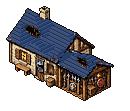
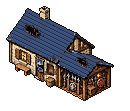
fix: capital roofs: slate faces set by hand on 13 GPT sets (no more stepped light/dark blocks)
The style match split each slate roof into faces by its light (slate_planes), so a mottled painting of
one plane was re-drawn as light and dark blobs, each its own face with its courses turned at a staircase
edge (the library, the lumber yard, the manor). gpt_convert.SLATE_FACES sets those sets' faces read off
the painting (+1, -1 or a split line in sheet px); style_match takes them via tune(opts) / knobs["faces"].
roof_bands.py scores the banding (drawn course direction against the best straight split per roof
piece) and flags the 13 re-converted sets; the warehouse and shop-house courses now run with their
eaves. Ruins unchanged; every other set unchanged. town_debug: three capital roof shots.

diff --git a/tools/dev/ref_convert/roof_bands.py b/tools/dev/ref_convert/roof_bands.py
@@ -1,0 +1,155 @@
+"""Roof banding: how much of a gpt_* set's slate roof is drawn as stepped blocks instead of even tile courses.
+
+The style match pass re-draws a slate roof as courses (style_match.courses()), each face in its own tone with its
+courses parallel to its eave. Where the faces are split by the painting's light (slate_planes()) and the painting is
+mottled (moss, lichen, painted wear), a roof that is one plane is cut into light and dark blobs, each drawn as a face
+of its own: big flat light/dark blocks whose courses turn at a staircase edge (the user's "strange roofs", capital
+polish 3). A roof's true faces are planes, so on the sprite they meet along straight lines (a ridge, a hip); the
+blobs do not. This scores that, per still (intact, damaged, ruins):
+
+  roof     the roof px: slate blue (style_stats.family) in pieces of at least style_match.SLATE_MIN px, not the outline,
+           not painted water (gpt_convert.water_mask() of a set with water)
+  drawn    per roof px, the way its courses run: +1 down-right, -1 up-right, from the still's exact colour repeats
+           along the two course diagonals (2, 1) and (2, -1) over a 5 x 5 window
+  blocks   the share of the roof drawn against the best straight split of each roof piece: per piece, the line (every
+           3 degrees, every offset) that best parts its +1 from its -1 (or no line: one face), and the px on the wrong
+           side of it. A roof of one face or of two faces meeting at a ridge scores near 0; blobs score high.
+  patches  turned patches of at least PATCH px (the stepped blocks themselves: the px on the wrong side, joined)
+  shades   distinct roof colours
+  banding  blocks (the ranking and the flag)
+
+A set is flagged when its intact's banding is THRESHOLD or more, the threshold set to flag the user's three examples
+(the library, the user's "chapel"; the lumber yard; the manor, whose roof is the one by the Keep's drill yard). Red
+roofs are not scored: they keep their painted tiles (style_match.RED_ROOFS off), nothing re-draws them.
+
+Usage (from anywhere):
+  python tools/dev/ref_convert/roof_bands.py [<set> ...] [--dir <buildings dir>] [--top N]
+  no sets: every gpt_* set (style_stats.GPT), ranked by the intact's banding.
+"""
+import argparse
+import sys
+from pathlib import Path
+
+import numpy as np
+from PIL import Image
+
+sys.path.insert(0, str(Path(__file__).resolve().parent))
+import gpt_convert as gc  # noqa: E402
+import style_match as sm  # noqa: E402
+import style_stats as ss  # noqa: E402
+from bonfire_flicker import _components  # noqa: E402
+
+STATES = ("intact", "damaged", "ruins")
+THRESHOLD = 0.045
+PATCH = 12
+ANGLES = np.radians(np.arange(0, 180, 3))
+
+
+def roof(a, water=None):
+    """The scored roof px of an output still (see the module doc)."""
+    al = a[..., 3] > 0
+    f = ss.family(a[..., :3].astype(float))
+    m = al & (f == ss.BLUE) & ~ss.outline_mask(al)
+    if water is not None:
+        m &= ~water
+    out = np.zeros_like(m)
+    for pts in _components(m, conn8=False):
+        if len(pts) >= sm.SLATE_MIN:
+            ys, xs = zip(*pts)
+            out[list(ys), list(xs)] = True
+    return out
+
+
+def drawn(a, m):
+    """+1 where the still's courses run down-right (colour repeats along (2, 1)), -1 up-right, on the roof px."""
+    key = (a[..., 0].astype(np.int64) << 16) | (a[..., 1].astype(np.int64) << 8) | a[..., 2]
+    key = np.where(m, key, -1)
+    h, w = m.shape
+    p = np.pad(key, 3, constant_values=-2)
+
+    def at(dy, dx):
+        return p[3 + dy:3 + dy + h, 3 + dx:3 + dx + w]
+    down = ((at(1, 2) == key).astype(float) + (at(-1, -2) == key)) * m
+    up = ((at(-1, 2) == key).astype(float) + (at(1, -2) == key)) * m
+    s = sm._box(down, 2) - sm._box(up, 2)
+    s = sm._box(np.where(m, np.sign(s), 0.0), 1)
+    return np.where(s >= 0, 1, -1)
+
+
+def wrong_side(ys, xs, o):
+    """The px of one roof piece on the wrong side of the straight split that best parts its +1 from its -1 (or of no
+    split, when one face fits better), as a boolean array along (ys, xs)."""
+    pos = o > 0
+    n = len(pos)
+    best = (min(pos.sum(), n - pos.sum()), None)          # no split: the minority sign is wrong
+    for ang in ANGLES:
+        t = xs * np.cos(ang) + ys * np.sin(ang)
+        idx = np.argsort(t, kind="stable")
+        c = np.concatenate([[0], np.cumsum(pos[idx])])     # +1 px before each cut
+        k = np.arange(n + 1)
+        wrong_a = (k - c) + (pos.sum() - c)                # +1 before the cut, -1 after
+        wrong_b = c + (n - k) - (pos.sum() - c)            # -1 before the cut, +1 after
+        for wr, plus_first in ((wrong_a, True), (wrong_b, False)):
+            i = int(wr.argmin())
+            if wr[i] < best[0]:
+                best = (int(wr[i]), (idx, i, plus_first))
+    if best[1] is None:
+        return pos if pos.sum() * 2 < n else ~pos
+    idx, i, plus_first = best[1]
+    want = np.zeros(n, bool)
+    want[idx[:i]] = plus_first
+    want[idx[i:]] = not plus_first
+    return want != pos
+
+
+def score(a, water=None):
+    """{px, blocks, patches, shades, banding} of one output still, or None when it has no slate roof."""
+    m = roof(a, water)
+    n = int(m.sum())
+    if n == 0:
+        return None
+    o = drawn(a, m)
+    bad = np.zeros_like(m)
+    for pts in _components(m, conn8=False):
+        ys, xs = (np.array(v) for v in zip(*pts))
+        w = wrong_side(ys, xs, o[ys, xs])
+        bad[ys[w], xs[w]] = True
+    patches = sum(1 for q in _components(bad, conn8=False) if len(q) >= PATCH)
+    key = (a[..., 0].astype(np.int64) << 16) | (a[..., 1].astype(np.int64) << 8) | a[..., 2]
+    blocks = float(bad.sum()) / n
+    return {"px": n, "blocks": blocks, "patches": patches, "shades": int(len(np.unique(key[m]))), "banding": blocks}
+
+
+def score_set(name, base):
+    out = {}
+    water = None
+    for st in STATES:
+        a = np.array(Image.open(Path(base) / name / (st + ".png")).convert("RGBA"))
+        if st == "intact" and gc.SETS[name].get("water"):
+            water = gc.water_mask(a)
+        out[st] = score(a, water)
+    return out
+
+
+def main():
+    p = argparse.ArgumentParser(description=__doc__, formatter_class=argparse.RawDescriptionHelpFormatter)
+    p.add_argument("sets", nargs="*")
+    p.add_argument("--dir", default=str(ss.B))
+    p.add_argument("--top", type=int, default=0, help="print only the N highest")
+    args = p.parse_args()
+    rows = [(n, score_set(n, args.dir)) for n in (args.sets or ss.GPT)]
+    rows.sort(key=lambda r: -(r[1]["intact"]["banding"] if r[1]["intact"] else -1.0))
+    if args.top:
+        rows = rows[:args.top]
+    print("threshold %.3f (the intact's banding); per still: banding, patches, shades, roof px" % THRESHOLD)
+    print("%-18s %-24s %-24s %-24s %s" % ("set", "intact", "damaged", "ruins", "flag"))
+
+    def cell(r):
+        return "-" if r is None else "%.3f %3d %3d px %5d" % (r["banding"], r["patches"], r["shades"], r["px"])
+    for n, r in rows:
+        flag = "FLAG" if r["intact"] and r["intact"]["banding"] >= THRESHOLD else ""
+        print("%-18s %-24s %-24s %-24s %s" % (n, cell(r["intact"]), cell(r["damaged"]), cell(r["ruins"]), flag))
+
+
+if __name__ == "__main__":
+    main()

diff --git a/tools/dev/ref_convert/style_match.py b/tools/dev/ref_convert/style_match.py
@@ -451,20 +451,21 @@ def roof_materials():
     return [m for m in COURSE if m != ss.RED or RED_ROOFS]
 
 
-def courses(a, m, mat, contrast=1.0, ref=None, fam=None):
+def courses(a, m, mat, contrast=1.0, ref=None, fam=None, planes=None):
     """A roof (mask m, material mat) re-drawn as courses, as the in-game roofs are (COURSE[mat]): the tone is the
     roof's own colour per face, the painting's light across the face kept at `keep` (its mottling and speckle go);
     each course of `p` px has a light top row and a dark bottom line, parallel to the face's eave (slate_planes());
     tiles (`joint` px long, staggered by half a tile per course) get a dark joint in the course's middle rows and a
     fixed tone step of up to `var`. `contrast` scales every step (tune() fits it to the reference roofs' edge
     contrast). `ref`: the same canvas's intact at the same stage; a damaged still keeps its soot and char as the
-    ratio of its luminance to the intact's."""
+    ratio of its luminance to the intact's. `planes`: the faces (+1 / -1 per px, a set's own: knobs["faces"])
+    instead of slate_planes()."""
     if not m.any():
         return a
     c = COURSE[mat]
     out = a.copy()
     L = ss.luma(a[..., :3])
-    pl = slate_planes(L if ref is None else ss.luma(ref[..., :3]), m)
+    pl = slate_planes(L if ref is None else ss.luma(ref[..., :3]), m) if planes is None else planes
     h, w = m.shape
     ys, xs = np.mgrid[0:h, 0:w]
     v = np.where(pl > 0, ys - xs // 2, ys + (xs + 1) // 2)
@@ -580,7 +581,8 @@ def match(a, knobs, light=False, glow=True, ref=None, keep=None):
                     sm &= ~keep
                 if sm.sum() < SLATE_MIN:
                     continue
-                a = courses(a, sm, mat, knobs.get("tile", {}).get(mat, 1.0), r, rfam if r is not None else fam0)
+                pl = knobs.get("faces")         # a set's own faces (gpt_convert SLATE_FACES), else the light's
+                a = courses(a, sm, mat, knobs.get("tile", {}).get(mat, 1.0), r, rfam if r is not None else fam0, pl)
                 fam = np.where(sm, mat, fam)    # the re-drawn roof locks to its own material, mottles too
                 clear = clear | (sm & (a[..., :3].max(-1) >= CLEAR_V * 255))   # a damaged roof's char stays char
         if glow:
@@ -610,7 +612,7 @@ def score(img):
     return abs(st["edge"] - EDGE_TARGET) + 2.0 * max(0.0, lo - st["lum"], st["lum"] - hi), st
 
 
-def _grid(intact, fac, glob, roof, tile=None):
+def _grid(intact, fac, glob, roof, tile=None, opts=None):
     """The (lift, amount) grid with the saturation rounds (see tune()): (knobs, stats, image)."""
     mat_ref = refs()[1]
     tile = tile or {}
@@ -618,7 +620,7 @@ def _grid(intact, fac, glob, roof, tile=None):
         best = None
         for lift in LIFTS:
             for amount in AMOUNTS:
-                k = {"fac": fac, "glob": glob, "lift": lift, "amount": amount, "roof": roof, "tile": tile}
+                k = dict(opts or {}, fac=fac, glob=glob, lift=lift, amount=amount, roof=roof, tile=tile)
                 img, _ = match(intact, k)
                 c, st = score(img)
                 c += 0.01 * abs(lift - 1.0) + 0.002 * amount
@@ -671,14 +673,16 @@ def _roofs(intact, k, img, rounds):
     return k, img
 
 
-def tune(intact):
+def tune(intact, opts=None):
     """The set's knobs: saturation factors from the intact, then (lift, amount) off the fixed grid that lands its
     edge contrast nearest EDGE_TARGET with its mean luminance in LUM_BAND (ties: the smaller change), then the roofs
-    (shade and course contrast) toward the reference roofs; the grid again with them, and the roofs again."""
+    (shade and course contrast) toward the reference roofs; the grid again with them, and the roofs again. `opts`: a
+    set's own options, kept in its knobs (faces: its slate's faces, +1 / -1 per px of the canvas, instead of
+    slate_planes()' split by light)."""
     fac, glob = sat_factors(intact)
-    k, st, img = _grid(intact, fac, glob, {})
+    k, st, img = _grid(intact, fac, glob, {}, None, opts)
     k, img = _roofs(intact, k, img, ROOF_ROUNDS)
-    k, st, img = _grid(intact, fac, k["glob"], k["roof"], k.get("tile"))
+    k, st, img = _grid(intact, fac, k["glob"], k["roof"], k.get("tile"), opts)
     k, img = _roofs(intact, k, img, ROOF_ROUNDS)
     return k, ss.stats(img)
 

diff --git a/tools/dev/ref_convert/gpt_convert.py b/tools/dev/ref_convert/gpt_convert.py
@@ -343,6 +343,40 @@ SMALL_SMOKE = []
 # The props laid a second time, mirrored (the showcase's MIRRORS).
 MIRRORS = ["gpt_wagon"]
 
+# Slate faces set by hand (capital polish 3): on these sets the style match's split of the slate into faces by its
+# light (style_match.slate_planes()) follows the painting's moss and mottling, so a roof that is one plane was re-drawn
+# as light and dark blobs, each a face of its own with its courses turned at a staircase edge (the user's "strange
+# roofs"; roof_bands.py scores it and flags these). Each is read off the painting instead: +1 (every slate px on a face
+# whose courses run down-right, parallel to an eave on the sprite's left: the lit face) or -1 (up-right: the shaded
+# face), or a split (p0, p1, left, right): the line through sheet px p0 and p1 (a ridge or a hip, never level), the
+# slate left of it on screen one face and right of it the other. The other sets keep the light's split.
+SLATE_FACES = {
+    # one plane each (a long face, its eave on the sprite's left; a lean-to or a porch the same way)
+    "gpt_armoury": 1, "gpt_manor": 1, "gpt_library": 1, "gpt_rowhouses": 1, "gpt_inn": 1, "gpt_weavers": 1,
+    "gpt_chapel": 1, "gpt_tannery": 1, "gpt_weighhouse": 1, "gpt_lumberyard": 1,
+    # the gable at the front-left: the face seen is the right one, its eave rising to the right (the light's split
+    # had drawn most of it lit, its courses turned against the painting's)
+    "gpt_warehouse": -1, "gpt_shophouse": -1,
+    # a hip roof: the long lit face, and the hip face right of the hip (its row of ridge caps above the right turret)
+    "gpt_drawbridge": ((905, 130), (922, 265), 1, -1),
+}
+
+
+def faces_map(name, shape, tf, origin):
+    """A SLATE_FACES set's faces on its stills' canvas (`shape`, `origin` its corner on the fitted sprite): +1 / -1
+    per px, or None for a set not in the table."""
+    f = SLATE_FACES.get(name)
+    if f is None:
+        return None
+    if isinstance(f, int):
+        return np.full(shape[:2], f, int)
+    p0, p1, left, right = f
+    q0 = tf(p0) - np.array(origin, float)
+    q1 = tf(p1) - np.array(origin, float)
+    ys, xs = np.mgrid[0:shape[0], 0:shape[1]]
+    x_line = q0[0] + (ys + 0.5 - q0[1]) * (q1[0] - q0[0]) / (q1[1] - q0[1])
+    return np.where(xs + 0.5 < x_line, left, right)
+
 # A sheet: its source (in concepts/GPT), its grid (cols, rows), the painted smoke to strip, and its sets.
 SHEETS = {
     "defence": dict(src="defence_sheet_v1.webp", grid=(3, 2), smoke=[], sets=DEFENCE_SETS),
@@ -1304,7 +1338,10 @@ def nearest_base_errors(img, A, fp):
     return warehouse.corner_errors(img, A, fp)
 
 
-def make(name, out_dir, debug=None):
+def stills(name):
+    """A set's three stills before the style match pass, on one canvas cropped to them: (stills {state: RGBA float},
+    anchor, spec, transform sheet px -> canvas px, fit info, recentre shift, (canvas origin x0, y0 on the padded fit),
+    the painted water cut and its depth (None without cut_water))."""
     spec = SETS[name]
     native, A, tf, info = fit(spec)
     if spec.get("shade"):
@@ -1368,9 +1405,16 @@ def make(name, out_dir, debug=None):
     y1 = max(ys.max() + 1 + PAD, int(A[1]) + 11)
     crop = {k2: v[y0:y1, x0:x1] for k2, v in st.items()}
     A = (int(A[0] - x0), int(A[1] - y0))
+    return crop, A, spec, tf, info, shift, (x0, y0), (cut if depth is not None else None), depth
+
+
+def make(name, out_dir, debug=None):
+    crop, A, spec, tf, info, shift, (x0, y0), cut, depth = stills(name)
     # the final step: the style match pass (style_match.py), its knobs tuned on the intact; reused ruins are already
     # in the game's style, so they get only its palette lock, speck clean and outline
-    knobs, st_after = style_match.tune(crop["intact"])
+    # a SLATE_FACES set: its slate's faces read off the painting, not split by its light
+    faces = faces_map(name, crop["intact"].shape, tf, (x0, y0))
+    knobs, st_after = style_match.tune(crop["intact"], None if faces is None else {"faces": faces})
     # a garden has no windows: its fruit and straw would pass for lamp light
     glow = spec["ruins"] not in (GARDEN, CRACKED) and not spec.get("water")
     # painted water (a channel, a pond, a quay's stream) keeps its surface: its blue is not re-drawn as slate courses

diff --git a/tools/dev/ref_convert/README.md b/tools/dev/ref_convert/README.md
@@ -122,6 +122,7 @@ Spec: `docs/superpowers/specs/2026-10-05-art-animation-design.md`. Frames are dr
   - `window_glow.lit(frames)` is the finder alone; `style_match.py` runs it on a converted sprite before its palette lock.
 - **`style_stats.py [<set>...] [--state] [--dir]`**: the style numbers of intact stills (outline luminance, edge contrast, distinct colours, saturation, luminance) and each set's dominant material against the references.
 - **`style_match.py [--palette]`**: the style match pass, `gpt_convert.py`'s final step: saturation per material, local contrast, a lock to the game palette (`game_palette.png`, rebuilt from the reference sets with `--palette`) within each pixel's material, speck clean, darker eaves, the in-game outline colours and the lit-window ramp (it writes the `gpt_*` glow masks).
+- **`roof_bands.py [<set>...] [--dir] [--top]`**: how much of each `gpt_*` set's slate roof is drawn as stepped light/dark blocks (faces split by the painting's mottling, not its planes), per still, ranked, the sets over its threshold flagged; `gpt_convert.py`'s `SLATE_FACES` sets those sets' faces by hand.
 
 ### Engine
 
